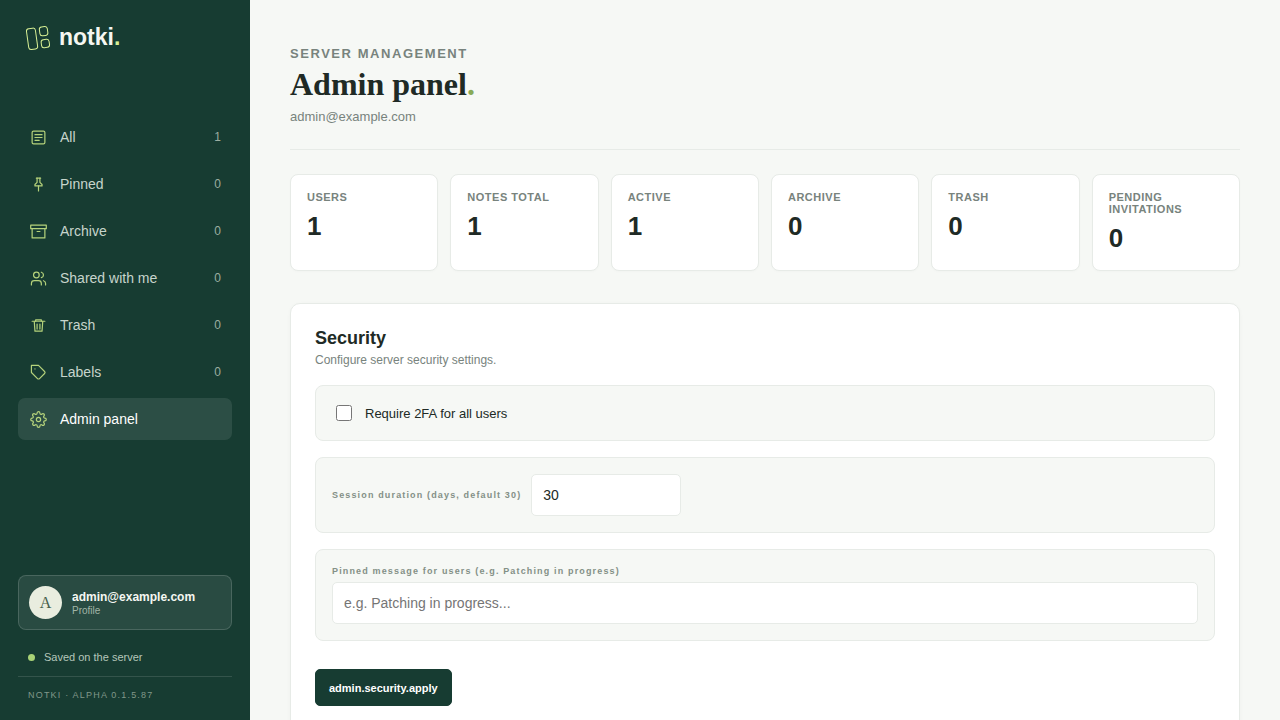
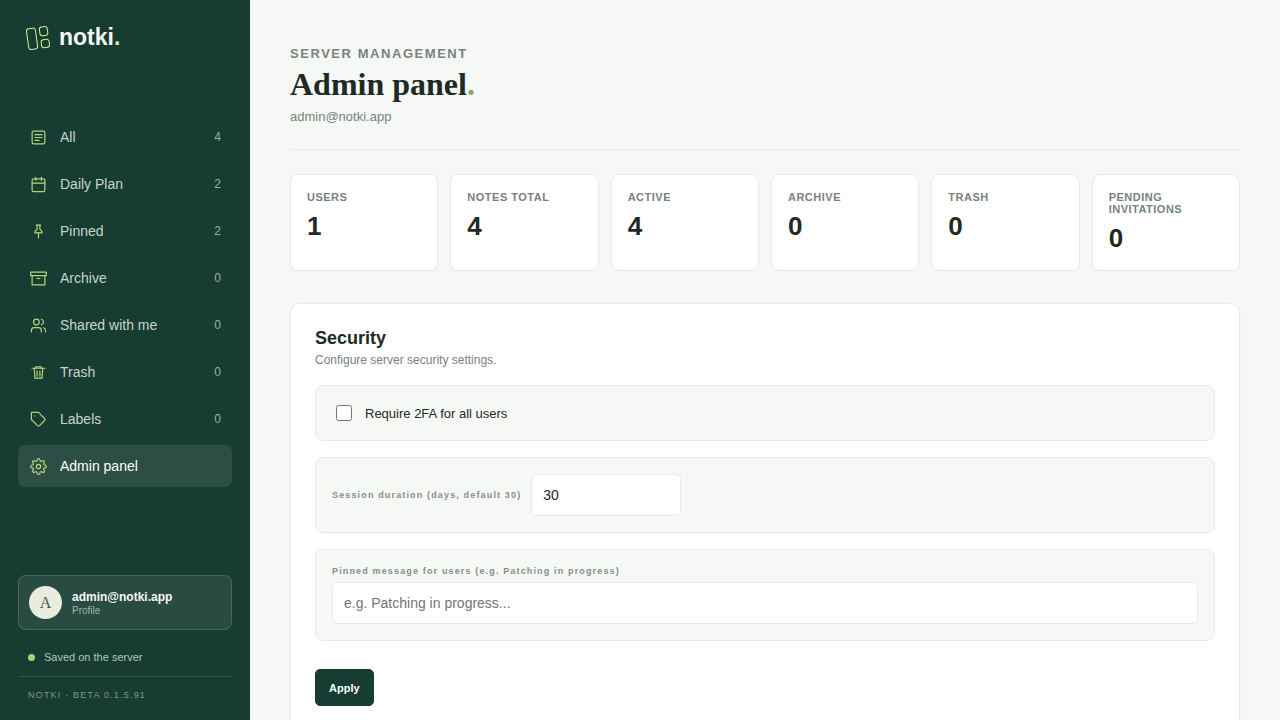
docs: update README with new features and generate refreshed screenshots

diff --git a/README.md b/README.md
@@ -8,18 +8,20 @@ A fast, lightweight, and private web-based note-taking application written in pu
 
 ## 🚀 Key Features
 
-- 📝 **Note Creation & Editing**: Rich text formatting (bold, italic, underline), bulleted and numbered lists, plus interactive checklists with progress bars and drag-and-drop handles.
-- 🏷 **Labels & Organization**: Flexible tagging system, pin essential notes, archive inactive items, send unwanted notes to trash, and personalize cards with distinct background colors.
-- 🤝 **Note Sharing**: Securely share notes with other users on your server with read-only or read-write permissions.
-- 📶 **Offline Support & Sync**: Work seamlessly offline thanks to browser `localStorage` caching and automated background synchronization when connectivity is restored.
-- 👤 **User Profiles & Avatars**: Personalize user accounts and upload custom avatars.
-- 🔐 **Advanced Security**:
-  - Two-Factor Authentication (2FA) via TOTP authenticator apps and WebAuthn Passkeys / hardware security keys.
-  - Sliding-window rate limiting on login endpoints to prevent brute-force attacks.
-  - Enforce 2FA server-wide via administrative settings.
-- 💾 **JSON Backups**: Create, download, restore, and import complete server backups in transparent `.json` format.
-- ⚙ **Admin Panel**: Manage user accounts, create invitation links with customizable expiration periods (in days), monitor server statistics, and perform automated updates directly from GitHub.
-- 🎨 **Themes & Multi-Language (i18n)**: Native Light, Dark, and System themes, with built-in support for multiple languages (English, Polish, German, French, Japanese, Korean, Italian, Spanish).
+- 📝 **Note Creation & Rich Formatting**: Rich text formatting (bold, italic, underline, font sizing), bulleted/numbered lists, and interactive checklists with real-time progress indicators and drag-and-drop task handles.
+- 📅 **Due Dates & Daily Plan**: Schedule notes with due dates, view timeline sections (overdue, today, tomorrow, this week, later), and export events to iCalendar (`.ics`).
+- 🏷 **Labels & Flexible Organization**: Categorize with custom labels/tags, pin essential notes to the top, archive inactive items, manage trash, and personalize cards with adaptive pastel colors.
+- 🤝 **Note Sharing & Collaboration**: Securely share notes with other users on your server using configurable read-only or read-write permissions.
+- 📶 **Offline First & Auto-Sync**: Work seamlessly offline thanks to browser caching and background sync when connection is restored.
+- 👤 **User Profiles & Avatars**: Profile customization, password management, and custom avatar upload support.
+- 🔐 **Advanced Security & Authentication**:
+  - Two-Factor Authentication (2FA) supporting both TOTP (Authenticator Apps) and WebAuthn Passkeys / Hardware Security Keys (FIDO2/Touch ID/Face ID).
+  - Emergency 2FA recovery backup codes.
+  - Option to enforce 2FA server-wide via administrative settings.
+  - Rate limiting on login endpoints to prevent brute-force attempts.
+- 💾 **Transparent JSON Backups**: Full server state backup, download, upload, and restore in transparent `.json` format, with backup import support during first-run setup.
+- ⚙ **Comprehensive Admin Panel**: User account management, single-use invitation link generation with custom expiration, server system stats, pinned server announcements, and direct update checks via GitHub releases.
+- 🎨 **Themes & Multi-Language Support (i18n)**: Native Light, Dark, and System theme integration, with built-in translations for English, Polish, German, French, Japanese, Korean, Italian, and Spanish.
 
 ---
 
@@ -27,7 +29,7 @@ A fast, lightweight, and private web-based note-taking application written in pu
 
 | View | Desktop (Light) | Desktop (Dark) | Mobile (Light) | Mobile (Dark) |
 |---|---|---|---|---|
-| **Notes** | ![Notes on Desktop Light](docs/desktop_notes_light.png) | ![Notes on Desktop Dark](docs/desktop_notes_dark.png) | ![Notes on Mobile Light](docs/mobile_notes_light.png) | ![Notes on Mobile Dark](docs/mobile_notes_dark.png) |
+| **Notes View** | ![Notes on Desktop Light](docs/desktop_notes_light.png) | ![Notes on Desktop Dark](docs/desktop_notes_dark.png) | ![Notes on Mobile Light](docs/mobile_notes_light.png) | ![Notes on Mobile Dark](docs/mobile_notes_dark.png) |
 | **Admin Panel** | ![Admin Panel on Desktop Light](docs/desktop_admin_light.png) | ![Admin Panel on Desktop Dark](docs/desktop_admin_dark.png) | ![Admin Panel on Mobile Light](docs/mobile_admin_light.png) | ![Admin Panel on Mobile Dark](docs/mobile_admin_dark.png) |
 
 ---
